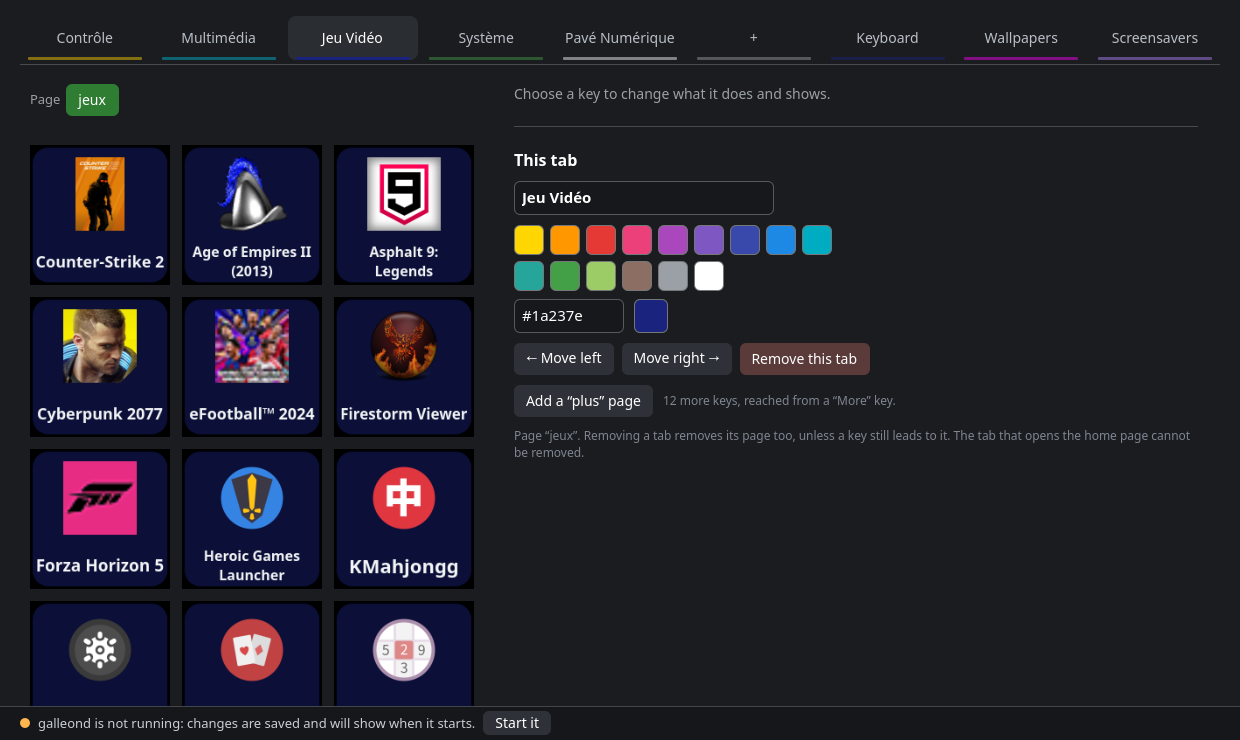
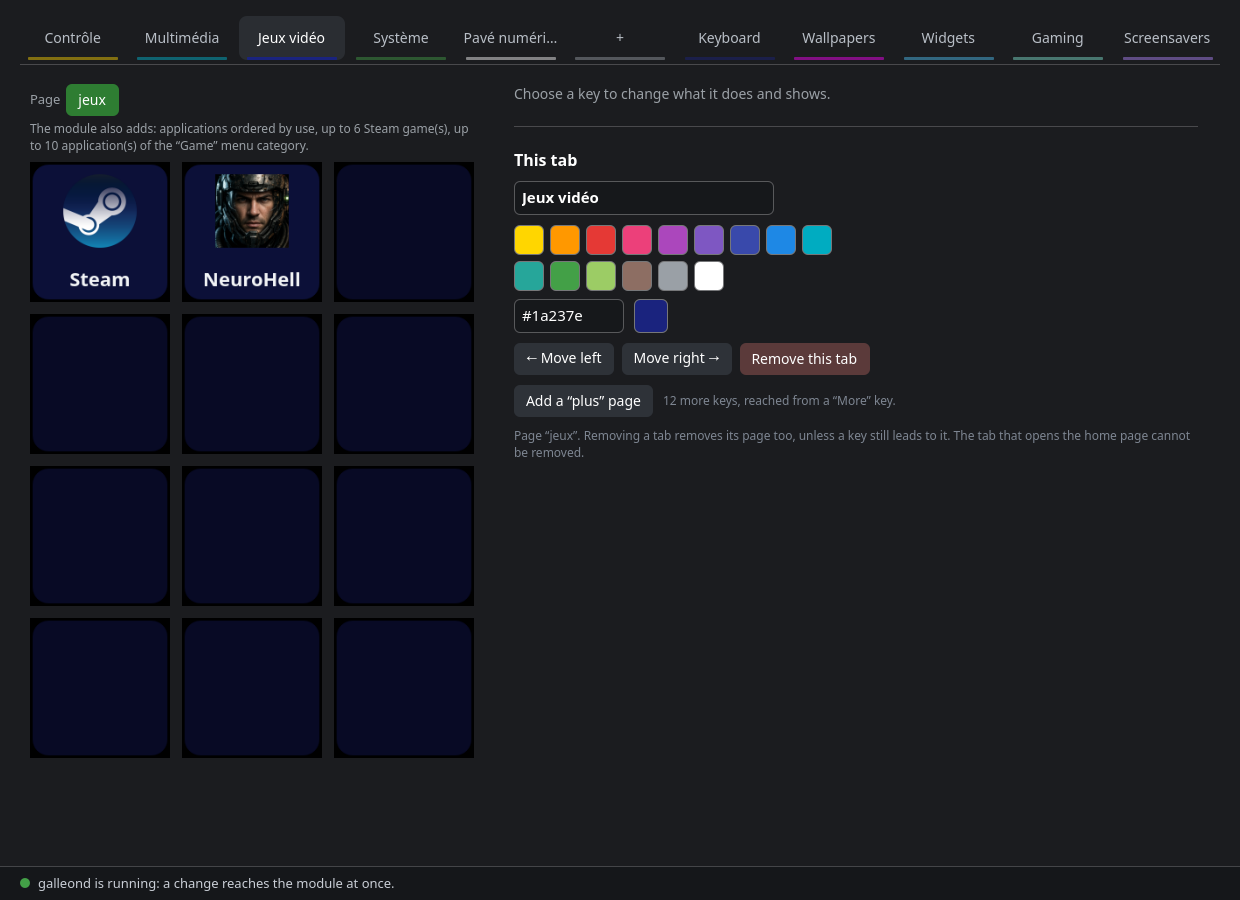
docs: present 0.2.0 widgets and Gaming on website and READMEs

Changed region(s): [[0.0, 0.0311, 0.9806, 0.9946], [0.7048, 0.5595, 0.7355, 0.5905]]

diff --git a/site/index.html b/site/index.html
@@ -6,12 +6,12 @@
 <meta charset="utf-8">
 <meta name="viewport" content="width=device-width, initial-scale=1">
 <title>GalleonCore — Open-source control for Corsair Galleon 100 SD</title>
-<meta name="description" content="Open-source control for the Corsair Galleon 100 SD on Linux and Windows. Customize 12 Stream Deck keys, dials, wallpapers, screensavers and app launchers.">
+<meta name="description" content="Open-source control for the Corsair Galleon 100 SD on Linux and Windows. Customize Stream Deck keys, home widgets, automatic Gaming mode, wallpapers and screensavers.">
 <link rel="canonical" href="https://galleoncore.xyz/">
 <meta property="og:type" content="website">
 <meta property="og:site_name" content="GalleonCore">
 <meta property="og:title" content="GalleonCore — Open-source control for Corsair Galleon 100 SD">
-<meta property="og:description" content="Control and customize the Galleon 100 SD Stream Deck keys, dials, wallpapers and screensavers on Linux and Windows.">
+<meta property="og:description" content="Control and customize the Galleon 100 SD Stream Deck keys, home widgets and automatic Gaming mode on Linux and Windows.">
 <meta property="og:url" content="https://galleoncore.xyz/">
 <meta property="og:locale" content="en_US">
 <meta property="og:locale:alternate" content="fr_FR">
@@ -21,7 +21,7 @@
 <meta property="og:image:alt" content="Galleon Bosun showing the Control page and its Stream Deck buttons">
 <meta name="twitter:card" content="summary_large_image">
 <meta name="twitter:title" content="GalleonCore — Open-source control for Corsair Galleon 100 SD">
-<meta name="twitter:description" content="Customize the Galleon 100 SD Stream Deck keys, dials, wallpapers and screensavers on Linux and Windows.">
+<meta name="twitter:description" content="Customize the Galleon 100 SD Stream Deck keys, home widgets and automatic Gaming mode on Linux and Windows.">
 <meta name="twitter:image" content="https://galleoncore.xyz/screenshots/control.png">
 <link rel="icon" href="logo.svg" type="image/svg+xml">
 <link rel="icon" href="favicon.ico" sizes="any">
@@ -354,12 +354,12 @@ p code, li code { background: var(--code-bg); padding: 1px 6px; border-radius: 4
     <div>
       <h1>GalleonCore</h1>
       <p class="lead">
-        <span lang="en">Open-source Linux support for the Corsair Galleon 100 SD: its Stream Deck keys, screen and dials, its RGB lighting, and widgets that show on both the keyboard and your KDE desktop.</span>
-        <span lang="fr">Le support Linux libre du Corsair Galleon 100 SD : les touches, l'écran et les molettes de son Stream Deck, son éclairage RVB, et des widgets affichés à la fois sur le clavier et sur ton bureau KDE.</span>
+        <span lang="en">Open-source Linux support for the Corsair Galleon 100 SD: its Stream Deck keys, screen and dials, customizable home widgets and automatic Gaming mode.</span>
+        <span lang="fr">Le support Linux libre du Corsair Galleon 100 SD : les touches, l'écran et les molettes de son Stream Deck, des widgets d’accueil personnalisables et un mode Gaming automatique.</span>
       </p>
       <p class="note">
-        <span lang="en">Active development. The Stream Deck module works on Linux, with Galleon Bosun for settings. A Windows desktop preview is available for hardware testing; Plasma widgets remain planned.</span>
-        <span lang="fr">En développement actif. Le module Stream Deck fonctionne sous Linux, avec Galleon Bosun pour les réglages. Une préversion Windows est disponible pour les essais matériels ; les widgets Plasma restent prévus.</span>
+        <span lang="en">Active development. The Stream Deck module works on Linux, with Galleon Bosun for settings. Version 0.2.0 brings home widgets and automatic Gaming mode to Linux and Windows; Plasma widgets remain planned.</span>
+        <span lang="fr">En développement actif. Le module Stream Deck fonctionne sous Linux, avec Galleon Bosun pour les réglages. La version 0.2.0 apporte les widgets d’accueil et le mode Gaming automatique sous Linux et Windows ; les widgets Plasma restent prévus.</span>
       </p>
       <div class="actions">
         <a class="btn btn-primary" href="https://github.com/Paullux/GalleonCore"><span lang="en">View the source</span><span lang="fr">Voir le code</span></a>
@@ -381,7 +381,7 @@ p code, li code { background: var(--code-bg); padding: 1px 6px; border-radius: 4
         <a class="key" style="--i:2" href="#build" data-en="Build GalleonCore and give your user access to the keyboard." data-fr="Compiler GalleonCore et donner accès au clavier."><span lang="en">Build</span><span lang="fr">Com&shy;piler</span></a>
         <a class="key" style="--i:3" href="#quality" data-en="Tests, sanitizers, fuzzing and lints on every change." data-fr="Tests, sanitizers, fuzzing et lints à chaque modification."><span lang="en">Tests</span><span lang="fr">Tests</span></a>
         <a class="key" style="--i:4" href="#deck" data-en="Draw on the 12 keys and the screen, read the dials." data-fr="Afficher sur les 12 touches et l'écran, lire les molettes."><span lang="en">Stream Deck</span><span lang="fr">Stream Deck</span></a>
-        <a class="key" style="--i:5" href="#widgets" data-en="The same QML widgets on the keyboard and in Plasma." data-fr="Les mêmes widgets QML sur le clavier et dans Plasma."><span lang="en">Widgets</span><span lang="fr">Widgets</span></a>
+        <a class="key" style="--i:5" href="#new-in-020" data-en="Customize home widgets and automatic Gaming mode in Bosun." data-fr="Personnalise les widgets d’accueil et le mode Gaming automatique dans Bosun."><span lang="en">Widgets</span><span lang="fr">Widgets</span></a>
         <a class="key" style="--i:6" href="#rgb" data-en="Per-key RGB, mood bar and dials, through OpenRGB." data-fr="RVB par touche, barre d'ambiance et molettes, via OpenRGB."><span lang="en">RGB</span><span lang="fr">RVB</span></a>
         <a class="key" style="--i:7" href="https://github.com/Paullux/GalleonCore/tree/main/docs/protocol" data-en="Protocol notes and USB captures, each fact with its source." data-fr="Notes de protocole et captures USB, chaque fait sourcé."><span lang="en">Protocol</span><span lang="fr">Proto&shy;cole</span></a>
         <a class="key" style="--i:8" href="https://github.com/Paullux/GalleonCore/blob/main/docs/ROADMAP.md" data-en="Detailed design notes and next steps (in French)." data-fr="Notes de conception détaillées et prochaines étapes."><span lang="en">Roadmap</span><span lang="fr">Feuille de route</span></a>
@@ -395,7 +395,7 @@ p code, li code { background: var(--code-bg); padding: 1px 6px; border-radius: 4
 
   <section class="wrap" id="downloads">
     <h2><span lang="en">Install GalleonCore</span><span lang="fr">Installer GalleonCore</span></h2>
-    <p class="prose"><span lang="en">Choose your operating system. Version 0.1.0 has direct downloads; distribution repositories also provide updates. The keyboard needs its own hardware access rules and a running per-user daemon.</span><span lang="fr">Choisis ton système. La version 0.1.0 propose des téléchargements directs ; les dépôts de distribution facilitent aussi les mises à jour. Le clavier nécessite des règles d’accès au matériel et un démon utilisateur actif.</span></p>
+    <p class="prose"><span lang="en">Choose your operating system. Version 0.2.0 has direct downloads; distribution repositories also provide updates. The keyboard needs its own hardware access rules and a running per-user daemon.</span><span lang="fr">Choisis ton système. La version 0.2.0 propose des téléchargements directs ; les dépôts de distribution facilitent aussi les mises à jour. Le clavier nécessite des règles d’accès au matériel et un démon utilisateur actif.</span></p>
     <div class="download-stats" aria-live="polite">
       <h3><span lang="en">Download counts</span><span lang="fr">Compteurs de téléchargement</span></h3>
       <div class="download-stats-grid">
@@ -416,7 +416,7 @@ p code, li code { background: var(--code-bg); padding: 1px 6px; border-radius: 4
       <article class="download-card">
         <h3>Windows x86_64</h3>
         <p><span lang="en">The Setup installs Bosun and galleond for your user. The ZIP is a portable alternative.</span><span lang="fr">Le Setup installe Bosun et galleond pour ta session. Le ZIP est une variante portable.</span></p>
-        <div class="actions"><a class="btn btn-primary" href="https://github.com/Paullux/GalleonCore/releases/download/v0.1.0/GalleonCore-0.1.0-Windows-x86_64-Setup.exe">Setup .exe</a><a class="btn btn-secondary" href="https://github.com/Paullux/GalleonCore/releases/download/v0.1.0/GalleonCore-Windows-x86_64.zip">ZIP</a></div>
+        <div class="actions"><a class="btn btn-primary" href="https://github.com/Paullux/GalleonCore/releases/download/v0.2.0/GalleonCore-0.2.0-Windows-x86_64-Setup.exe">Setup .exe</a><a class="btn btn-secondary" href="https://github.com/Paullux/GalleonCore/releases/download/v0.2.0/GalleonCore-Windows-x86_64.zip">ZIP</a></div>
       </article>
       <article class="download-card">
         <h3>Ubuntu 24.04 / 26.04</h3>
@@ -424,29 +424,29 @@ p code, li code { background: var(--code-bg); padding: 1px 6px; border-radius: 4
         <pre><code>sudo add-apt-repository ppa:paulwoisard/galleoncore
 sudo apt update
 sudo apt install galleoncore</code></pre>
-        <div class="actions"><a class="btn btn-primary" href="https://github.com/Paullux/GalleonCore/releases/download/v0.1.0/galleoncore_0.1.0-2.noble_amd64.deb">.deb 24.04</a><a class="btn btn-secondary" href="https://github.com/Paullux/GalleonCore/releases/download/v0.1.0/galleoncore_0.1.0-2.resolute_amd64.deb">.deb 26.04</a><a href="https://launchpad.net/~paulwoisard/+archive/ubuntu/galleoncore">PPA</a></div>
+        <div class="actions"><a class="btn btn-primary" href="https://github.com/Paullux/GalleonCore/releases/download/v0.2.0/galleoncore_0.2.0-1.noble_amd64.deb">.deb 24.04</a><a class="btn btn-secondary" href="https://github.com/Paullux/GalleonCore/releases/download/v0.2.0/galleoncore_0.2.0-1.resolute_amd64.deb">.deb 26.04</a><a href="https://launchpad.net/~paulwoisard/+archive/ubuntu/galleoncore">PPA</a></div>
       </article>
       <article class="download-card">
         <h3>Fedora 43 / 44 / 45</h3>
         <p><span lang="en">Use COPR for updates, or download the RPM built for your Fedora release.</span><span lang="fr">Utilise COPR pour les mises à jour, ou télécharge le RPM construit pour ta version de Fedora.</span></p>
         <pre><code>sudo dnf copr enable paullux/GalleonCore
 sudo dnf install galleoncore</code></pre>
-        <div class="actions"><a class="btn btn-primary" href="https://github.com/Paullux/GalleonCore/releases/download/v0.1.0/galleoncore-0.1.0-1.fc43.x86_64.rpm">RPM 43</a><a class="btn btn-secondary" href="https://github.com/Paullux/GalleonCore/releases/download/v0.1.0/galleoncore-0.1.0-1.fc44.x86_64.rpm">RPM 44</a><a class="btn btn-secondary" href="https://github.com/Paullux/GalleonCore/releases/download/v0.1.0/galleoncore-0.1.0-1.fc45.x86_64.rpm">RPM 45</a><a href="https://copr.fedorainfracloud.org/coprs/paullux/GalleonCore/">COPR</a></div>
+        <div class="actions"><a class="btn btn-primary" href="https://github.com/Paullux/GalleonCore/releases/download/v0.2.0/galleoncore-0.2.0-1.fc43.x86_64.rpm">RPM 43</a><a class="btn btn-secondary" href="https://github.com/Paullux/GalleonCore/releases/download/v0.2.0/galleoncore-0.2.0-1.fc44.x86_64.rpm">RPM 44</a><a class="btn btn-secondary" href="https://github.com/Paullux/GalleonCore/releases/download/v0.2.0/galleoncore-0.2.0-1.fc45.x86_64.rpm">RPM 45</a><a href="https://copr.fedorainfracloud.org/coprs/paullux/GalleonCore/">COPR</a></div>
       </article>
       <article class="download-card">
         <h3>Arch Linux</h3>
         <p><span lang="en">AUR builds the package on your machine. The release also offers a binary package and its PKGBUILD recipe.</span><span lang="fr">L’AUR construit le paquet sur ta machine. La release propose aussi un paquet binaire et sa recette PKGBUILD.</span></p>
         <pre><code>yay -S galleoncore</code></pre>
-        <div class="actions"><a class="btn btn-primary" href="https://aur.archlinux.org/packages/galleoncore">AUR</a><a class="btn btn-secondary" href="https://github.com/Paullux/GalleonCore/releases/download/v0.1.0/galleoncore-0.1.0-1-x86_64.pkg.tar.zst"><span lang="en">Arch package</span><span lang="fr">Paquet Arch</span></a><a href="https://github.com/Paullux/GalleonCore/releases/download/v0.1.0/PKGBUILD">PKGBUILD</a></div>
+        <div class="actions"><a class="btn btn-primary" href="https://aur.archlinux.org/packages/galleoncore">AUR</a><a class="btn btn-secondary" href="https://github.com/Paullux/GalleonCore/releases/download/v0.2.0/galleoncore-0.2.0-1-x86_64.pkg.tar.zst"><span lang="en">Arch package</span><span lang="fr">Paquet Arch</span></a><a href="https://github.com/Paullux/GalleonCore/releases/download/v0.2.0/PKGBUILD">PKGBUILD</a></div>
       </article>
       <article class="download-card">
         <h3><span lang="en">Other Linux x86_64</span><span lang="fr">Autres Linux x86_64</span></h3>
         <p><span lang="en">Run the AppImage directly. Its separate host-integration archive installs the hardware rules and an optional user service; follow its instructions before using the keyboard.</span><span lang="fr">Lance directement l’AppImage. L’archive d’intégration séparée installe les règles matérielles et un service utilisateur facultatif ; suis ses instructions avant d’utiliser le clavier.</span></p>
-        <div class="actions"><a class="btn btn-primary" href="https://github.com/Paullux/GalleonCore/releases/download/v0.1.0/GalleonCore-0.1.0-x86_64.AppImage">AppImage</a><a class="btn btn-secondary" href="https://github.com/Paullux/GalleonCore/releases/download/v0.1.0/GalleonCore-host-integration.tar.gz"><span lang="en">Host integration</span><span lang="fr">Intégration système</span></a></div>
+        <div class="actions"><a class="btn btn-primary" href="https://github.com/Paullux/GalleonCore/releases/download/v0.2.0/GalleonCore-0.2.0-x86_64.AppImage">AppImage</a><a class="btn btn-secondary" href="https://github.com/Paullux/GalleonCore/releases/download/v0.2.0/GalleonCore-host-integration.tar.gz"><span lang="en">Host integration</span><span lang="fr">Intégration système</span></a></div>
       </article>
     </div>
     <p class="prose"><span lang="en">Native Linux packages include galleond, Bosun, libgalleon, widgets, wallpapers and udev rules. Enable the optional user service with <code>systemctl --user enable --now galleond.service</code>. Fedora RPMs are Fedora-specific. On other distributions, check AppImage compatibility with your system and install the separate hardware integration.</span><span lang="fr">Les paquets Linux natifs incluent galleond, Bosun, libgalleon, les widgets, les fonds d’écran et les règles udev. Active le service utilisateur facultatif avec <code>systemctl --user enable --now galleond.service</code>. Les RPM Fedora sont propres à Fedora. Sur les autres distributions, vérifie la compatibilité de l’AppImage avec ton système et installe l’intégration matérielle séparée.</span></p>
-    <p class="prose"><a href="https://github.com/Paullux/GalleonCore/releases/tag/v0.1.0"><span lang="en">What each release file contains and its checksums</span><span lang="fr">Contenu de chaque fichier de la release et sommes de contrôle</span></a></p>
+    <p class="prose"><a href="https://github.com/Paullux/GalleonCore/releases/tag/v0.2.0"><span lang="en">What each release file contains and its checksums</span><span lang="fr">Contenu de chaque fichier de la release et sommes de contrôle</span></a></p>
     <h3><span lang="en">Project and build links</span><span lang="fr">Liens du projet et des compilations</span></h3>
     <div class="badges">
       <a href="https://galleoncore.xyz/"><img data-external-src="https://img.shields.io/badge/website-GalleonCore-46505E" alt="Website" height="20" loading="lazy"></a>
@@ -458,7 +458,7 @@ sudo dnf install galleoncore</code></pre>
       <a href="https://launchpad.net/~paulwoisard/+archive/ubuntu/galleoncore"><img data-external-src="https://img.shields.io/badge/Ubuntu-PPA-E95420?logo=ubuntu&amp;logoColor=white" alt="Ubuntu PPA" height="20" loading="lazy"></a>
       <a href="https://copr.fedorainfracloud.org/coprs/paullux/GalleonCore/"><img data-external-src="https://img.shields.io/badge/Fedora-COPR-51A2DA?logo=fedora&amp;logoColor=white" alt="Fedora COPR" height="20" loading="lazy"></a>
       <a href="https://aur.archlinux.org/packages/galleoncore"><img data-external-src="https://img.shields.io/badge/Arch-AUR-1793D1?logo=archlinux&amp;logoColor=white" alt="Arch AUR" height="20" loading="lazy"></a>
-      <a href="https://github.com/Paullux/GalleonCore/releases/download/v0.1.0/GalleonCore-0.1.0-x86_64.AppImage"><img data-external-src="https://img.shields.io/badge/Linux-AppImage-8E6BBF?logo=linux&amp;logoColor=white" alt="AppImage" height="20" loading="lazy"></a>
+      <a href="https://github.com/Paullux/GalleonCore/releases/download/v0.2.0/GalleonCore-0.2.0-x86_64.AppImage"><img data-external-src="https://img.shields.io/badge/Linux-AppImage-8E6BBF?logo=linux&amp;logoColor=white" alt="AppImage" height="20" loading="lazy"></a>
       <a href="https://github.com/Paullux/GalleonCore/blob/main/LICENSE.md"><img data-external-src="https://img.shields.io/badge/license-GPL%20%2F%20LGPL%20%2F%20CC--BY--SA-blue" alt="Licenses" height="20" loading="lazy"></a>
       <a href="https://github.com/Paullux/GalleonCore/blob/main/SECURITY.md"><img data-external-src="https://img.shields.io/badge/security-report%20privately-46505E" alt="Security policy" height="20" loading="lazy"></a>
     </div>
@@ -474,22 +474,39 @@ sudo dnf install galleoncore</code></pre>
     </nav>
   </section>
 
+  <section class="wrap" id="new-in-020">
+    <h2><span lang="en">New in 0.2.0</span><span lang="fr">Les nouveautés de la 0.2.0</span></h2>
+    <div class="prose">
+      <h3><span lang="en">Widgets: build your home screen</span><span lang="fr">Widgets : compose ton écran d’accueil</span></h3>
+      <p><span lang="en">The Widgets tab brings together the local clock and date, weather for your chosen city, CPU and RAM usage, CPU temperature, partial downloads and game FPS. Show or hide each widget, drag it in the preview, and adjust its position, dimensions and text size. Apply sends the saved layout to the keyboard screen.</span><span lang="fr">L’onglet Widgets réunit l’heure et la date selon ta locale, la météo de la ville choisie, l’utilisation du CPU et de la RAM, la température CPU, les téléchargements partiels et les FPS du jeu. Affiche ou masque chaque widget, déplace-le dans l’aperçu et règle sa position, ses dimensions et sa taille de texte. Appliquer enregistre la disposition et l’envoie sur l’écran du clavier.</span></p>
+      <h3><span lang="en">Gaming: a dedicated screen while you play</span><span lang="fr">Gaming : un écran dédié pendant tes parties</span></h3>
+      <p><span lang="en">When a game is detected, automatic Gaming mode displays its artwork, FPS, CPU/GPU load gauges and available temperatures. It prevents the keyboard screensaver from starting during play. The Gaming pad controls appear while the game is active and disappear when it closes, even if you switch key pages during the session.</span><span lang="fr">Lorsqu’un jeu est détecté, le mode Gaming automatique affiche son image, les FPS, les jauges de charge CPU/GPU et les températures disponibles. Il empêche la veille du module pendant la partie. Les commandes Gaming du pad apparaissent pendant le jeu et disparaissent à sa fermeture, même si tu changes de page de touches entre-temps.</span></p>
+      <p><span lang="en">Choose Automatic, OBS or Game Bar in the Gaming tab. Automatic uses OBS on Linux and Game Bar on Windows; unavailable choices are disabled. OBS uses its local WebSocket connection for supported recording and replay actions with confirmed states. Game Bar uses keyboard shortcuts without claiming an unconfirmed recording state. Your choice is saved.</span><span lang="fr">Choisis Automatique, OBS ou Game Bar dans l’onglet Gaming. Automatique utilise OBS sous Linux et Game Bar sous Windows ; les choix indisponibles sont grisés. OBS passe par sa connexion WebSocket locale pour les actions d’enregistrement et de replay prises en charge, avec des états confirmés. Game Bar utilise des raccourcis clavier sans annoncer un état d’enregistrement non confirmé. Ton choix est mémorisé.</span></p>
+      <h3><span lang="en">FPS capture on Linux and Windows</span><span lang="fr">La capture des FPS sous Linux et Windows</span></h3>
+      <p><span lang="en">On Windows, Galleon detects the installed PresentMon service and uses its API without opening its interface. The capture control distinguishes installation, readiness and active capture. On Linux, Bosun prepares the MangoHud configuration and FPS folder, then provides instructions for Steam, Heroic, Lutris, PlayOnLinux and Bottles. A launcher setup is still required; detection becomes automatic on subsequent launches.</span><span lang="fr">Sous Windows, Galleon détecte le service PresentMon installé et utilise son API sans ouvrir son interface. Le bouton distingue l’installation, l’attente d’un jeu et la capture active. Sous Linux, Bosun prépare la configuration MangoHud et le dossier des FPS, puis explique les réglages pour Steam, Heroic, Lutris, PlayOnLinux et Bottles. Une configuration du lanceur reste nécessaire ; la détection devient ensuite automatique à chaque lancement.</span></p>
+      <p><span lang="en">Sensor availability depends on the hardware and drivers. NVIDIA uses NVML; AMD uses AMD-SMI or Linux hwmon. AMD ADLX is not yet integrated on Windows; optional local sensor providers may be needed for temperatures. The download widget counts partial files in the Downloads folder, rather than browser progress percentages. See the guides for Vulkan, DXVK, VKD3D-Proton and Flatpak limitations.</span><span lang="fr">Les capteurs disponibles dépendent du matériel et des pilotes. NVIDIA utilise NVML ; AMD utilise AMD-SMI ou hwmon sous Linux. ADLX n’est pas encore intégré sous Windows ; un fournisseur de capteurs local facultatif peut être nécessaire pour les températures. Le widget de téléchargements compte les fichiers partiels du dossier Téléchargements, sans afficher un pourcentage de progression du navigateur. Les guides détaillent les limites liées à Vulkan, DXVK, VKD3D-Proton et Flatpak.</span></p>
+      <p><a href="https://github.com/Paullux/GalleonCore/blob/v0.2.0/docs/HOME_WIDGETS.md"><span lang="en">Widgets and FPS guide</span><span lang="fr">Guide des widgets et des FPS</span></a> · <a href="https://github.com/Paullux/GalleonCore/blob/v0.2.0/docs/MODE_JEU_LINUX.fr.md"><span lang="en">Linux launcher setup (French)</span><span lang="fr">Configuration des lanceurs Linux</span></a> · <a href="https://github.com/Paullux/GalleonCore/blob/v0.2.0/docs/GAMING_RECORDING.md"><span lang="en">Recording setup</span><span lang="fr">Configuration de l’enregistrement</span></a></p>
+    </div>
+  </section>
+
   <section class="wrap" id="previews">
     <h2><span lang="en">Galleon Bosun in pictures</span><span lang="fr">Galleon Bosun en images</span></h2>
-    <p class="prose"><span lang="en">The five default pages are shown with applications found on one Linux desktop; installed apps and icons vary by computer. Wallpapers and screensavers are selected in their own tabs. Click a picture to view it at full size.</span><span lang="fr">Les cinq pages par défaut sont montrées avec les applications trouvées sur un poste Linux ; les applications et icônes varient selon l’ordinateur. Les fonds d’écran et écrans de veille se choisissent dans leurs onglets. Clique sur une image pour l’agrandir.</span></p>
+    <p class="prose"><span lang="en">The five default pages are shown with applications found on one Linux desktop; installed apps and icons vary by computer. Widgets and Gaming are integrated alongside Keyboard, Wallpapers and Screensavers. These captures use an isolated demonstration profile; live readings depend on the host. Click a picture to view it at full size.</span><span lang="fr">Les cinq pages par défaut sont montrées avec les applications trouvées sur un poste Linux ; les applications et icônes varient selon l’ordinateur. Widgets et Gaming sont intégrés aux côtés de Clavier, Fonds d’écran et Écrans de veille. Ces captures utilisent un profil de démonstration isolé ; les mesures dépendent du poste. Clique sur une image pour l’agrandir.</span></p>
     <figure class="demo-video">
       <div class="demo-video-player" id="demo-video-player">
         <button type="button" id="demo-video-load" aria-label="Play GalleonCore demo on YouTube / Lire la démo GalleonCore sur YouTube"><span class="demo-video-play" aria-hidden="true">▶</span><span lang="en">Watch GalleonCore in action</span><span lang="fr">Voir GalleonCore en action</span></button>
       </div>
-      <figcaption><span lang="en">Playing loads a YouTube video. </span><span lang="fr">La lecture charge une vidéo YouTube. </span><a href="https://youtu.be/mLbDAYO5cGY"><span lang="en">Open on YouTube</span><span lang="fr">Ouvrir sur YouTube</span></a>.</figcaption>
+      <figcaption><span lang="en">Playing loads a YouTube video. </span><span lang="fr">La lecture charge une vidéo YouTube. </span><a href="https://youtu.be/eFwru_OMNNI"><span lang="en">Open on YouTube</span><span lang="fr">Ouvrir sur YouTube</span></a>.</figcaption>
     </figure>
     <div class="preview-grid">
-      <figure><a href="screenshots/control.png"><img src="screenshots/control.png" width="1240" height="740" loading="lazy" alt="Galleon Bosun: media controls on the Control page"></a><figcaption><span lang="en">Control</span><span lang="fr">Contrôle</span></figcaption></figure>
-      <figure><a href="screenshots/multimedia.png"><img src="screenshots/multimedia.png" width="1240" height="740" loading="lazy" alt="Galleon Bosun: browsers and media players on the Multimedia page"></a><figcaption><span lang="en">Multimedia</span><span lang="fr">Multimédia</span></figcaption></figure>
-      <figure><a href="screenshots/games.png"><img src="screenshots/games.png" width="1240" height="740" loading="lazy" alt="Galleon Bosun: installed games on the Games page"></a><figcaption><span lang="en">Games</span><span lang="fr">Jeu Vidéo</span></figcaption></figure>
-      <figure><a href="screenshots/system.png"><img src="screenshots/system.png" width="1240" height="740" loading="lazy" alt="Galleon Bosun: system tools on the System page"></a><figcaption><span lang="en">System</span><span lang="fr">Système</span></figcaption></figure>
-      <figure><a href="screenshots/numpad.png"><img src="screenshots/numpad.png" width="1240" height="740" loading="lazy" alt="Galleon Bosun: virtual numeric keypad"></a><figcaption><span lang="en">Numeric keypad</span><span lang="fr">Pavé numérique</span></figcaption></figure>
-      <figure><a href="screenshots/wallpapers.png"><img src="screenshots/wallpapers.png" width="1240" height="740" loading="lazy" alt="Galleon Bosun: choosing a wallpaper from the repository collection"></a><figcaption><span lang="en">Choose a wallpaper</span><span lang="fr">Choisir un fond d’écran</span></figcaption></figure>
+      <figure><a href="screenshots/control.png"><img src="screenshots/control.png" width="1240" height="900" loading="lazy" alt="Galleon Bosun: media controls on the Control page"></a><figcaption><span lang="en">Control</span><span lang="fr">Contrôle</span></figcaption></figure>
+      <figure><a href="screenshots/multimedia.png"><img src="screenshots/multimedia.png" width="1240" height="900" loading="lazy" alt="Galleon Bosun: browsers and media players on the Multimedia page"></a><figcaption><span lang="en">Multimedia</span><span lang="fr">Multimédia</span></figcaption></figure>
+      <figure><a href="screenshots/games.png"><img src="screenshots/games.png" width="1240" height="900" loading="lazy" alt="Galleon Bosun: installed games on the Games page"></a><figcaption><span lang="en">Games</span><span lang="fr">Jeu Vidéo</span></figcaption></figure>
+      <figure><a href="screenshots/system.png"><img src="screenshots/system.png" width="1240" height="900" loading="lazy" alt="Galleon Bosun: system tools on the System page"></a><figcaption><span lang="en">System</span><span lang="fr">Système</span></figcaption></figure>
+      <figure><a href="screenshots/numpad.png"><img src="screenshots/numpad.png" width="1240" height="900" loading="lazy" alt="Galleon Bosun: virtual numeric keypad"></a><figcaption><span lang="en">Numeric keypad</span><span lang="fr">Pavé numérique</span></figcaption></figure>
+      <figure><a href="screenshots/wallpapers.png"><img src="screenshots/wallpapers.png" width="1240" height="900" loading="lazy" alt="Galleon Bosun: choosing a wallpaper from the repository collection"></a><figcaption><span lang="en">Choose a wallpaper</span><span lang="fr">Choisir un fond d’écran</span></figcaption></figure>
+      <figure><a href="screenshots/widgets.png"><img src="screenshots/widgets.png" width="1240" height="900" loading="lazy" alt="Galleon Bosun: integrated Widgets tab with layout preview and text size controls"></a><figcaption><span lang="en">Widgets: layout, size and text</span><span lang="fr">Widgets : disposition, dimensions et texte</span></figcaption></figure>
+      <figure><a href="screenshots/gaming.png"><img src="screenshots/gaming.png" width="1240" height="1000" loading="lazy" alt="Galleon Bosun: integrated Gaming tab with recording selection and automatic game mode settings"></a><figcaption><span lang="en">Gaming: recording and automatic game mode</span><span lang="fr">Gaming : enregistrement et mode Jeu automatique</span></figcaption></figure>
       <figure><a href="screenshots/screensavers.png"><img src="screenshots/screensavers.png" width="1240" height="900" loading="lazy" alt="Galleon Bosun: choosing from two bundled screensaver videos"></a><figcaption><span lang="en">Choose a screensaver video</span><span lang="fr">Choisir une vidéo de veille</span></figcaption></figure>
     </div>
   </section>
@@ -553,7 +570,7 @@ sudo dnf install galleoncore</code></pre>
       <li><span><span lang="en">KDE Plasma widgets</span><span lang="fr">Widgets KDE Plasma</span></span><span class="state state-skeleton"><span lang="en">Skeleton</span><span lang="fr">Squelette</span></span></li>
       <li><span><span lang="en">OpenRGB dial-ring lighting</span><span lang="fr">Éclairage des anneaux via OpenRGB</span></span><span class="state state-active"><span lang="en">Hardware confirmed</span><span lang="fr">Confirmé sur le module</span></span></li>
       <li><span><span lang="en">Per-key RGB on the main keyboard</span><span lang="fr">RVB par touche du clavier principal</span></span><span class="state state-research"><span lang="en">Protocol blocked</span><span lang="fr">Protocole bloqué</span></span></li>
-      <li><span><span lang="en">Windows Setup and distribution packages</span><span lang="fr">Setup Windows et paquets de distribution</span></span><span class="state state-active"><span lang="en">v0.1.0 released</span><span lang="fr">v0.1.0 publiée</span></span></li>
+      <li><span><span lang="en">Windows Setup and distribution packages</span><span lang="fr">Setup Windows et paquets de distribution</span></span><span class="state state-active"><span lang="en">v0.2.0 released</span><span lang="fr">v0.2.0 publiée</span></span></li>
       <li><span><span lang="en">Extended Windows hardware checks</span><span lang="fr">Essais matériels prolongés sous Windows</span></span><span class="state state-research"><span lang="en">Still to confirm</span><span lang="fr">Encore à confirmer</span></span></li>
     </ul>
     <p class="status-legend">
@@ -702,7 +719,7 @@ sudo udevadm control --reload &amp;&amp; sudo udevadm trigger</code></pre>
 
   document.getElementById("demo-video-load").addEventListener("click", function () {
     var iframe = document.createElement("iframe");
-    iframe.src = "https://www.youtube-nocookie.com/embed/mLbDAYO5cGY?autoplay=1";
+    iframe.src = "https://www.youtube-nocookie.com/embed/eFwru_OMNNI?autoplay=1";
     iframe.title = "GalleonCore demo / Démonstration GalleonCore";
     iframe.allow = "accelerometer; autoplay; encrypted-media; gyroscope; picture-in-picture; web-share";
     iframe.allowFullscreen = true;

diff --git a/README.fr.md b/README.fr.md
@@ -11,7 +11,7 @@
 [![Ubuntu PPA](https://img.shields.io/badge/Ubuntu-PPA-E95420?logo=ubuntu&logoColor=white)](https://launchpad.net/~paulwoisard/+archive/ubuntu/galleoncore)
 [![Fedora COPR](https://img.shields.io/badge/Fedora-COPR-51A2DA?logo=fedora&logoColor=white)](https://copr.fedorainfracloud.org/coprs/paullux/GalleonCore/)
 [![Arch AUR](https://img.shields.io/badge/Arch-AUR-1793D1?logo=archlinux&logoColor=white)](https://aur.archlinux.org/packages/galleoncore)
-[![Linux AppImage](https://img.shields.io/badge/Linux-AppImage-8E6BBF?logo=linux&logoColor=white)](https://github.com/Paullux/GalleonCore/releases/download/v0.1.0/GalleonCore-0.1.0-x86_64.AppImage)
+[![Linux AppImage](https://img.shields.io/badge/Linux-AppImage-8E6BBF?logo=linux&logoColor=white)](https://github.com/Paullux/GalleonCore/releases/download/v0.2.0/GalleonCore-0.2.0-x86_64.AppImage)
 [![Licenses](https://img.shields.io/badge/license-GPL%20%2F%20LGPL%20%2F%20CC--BY--SA-blue)](LICENSE.md)
 [![Security policy](https://img.shields.io/badge/security-report%20privately-46505E)](SECURITY.md)
 
@@ -55,7 +55,7 @@ Un mode Jeu automatique affiche une image locale du jeu, les FPS et les tempéra
 
 ### Captures de Galleon Bosun
 
-Les cinq pages par défaut montrent les applications installées sur un poste Linux ; les applications et leurs icônes varient selon l’ordinateur. Les deux dernières captures montrent le choix des fonds d’écran et des vidéos de veille. [Voir la galerie sur le site](https://galleoncore.xyz/#previews).
+Les captures actualisées pour la 0.2.0 montrent les cinq pages de touches et les onglets Fonds d’écran, Widgets, Gaming et Écrans de veille. Les applications et leurs icônes varient selon l’ordinateur ; les mesures dépendent du poste de capture. [Voir la galerie sur le site](https://galleoncore.xyz/#previews).
 
 | Contrôle | Multimédia |
 |---|---|
@@ -64,8 +64,22 @@ Les cinq pages par défaut montrent les applications installées sur un poste Li
 | ![Page Jeu Vidéo de Bosun avec les jeux installés](site/screenshots/games.png) | ![Page Système de Bosun avec les outils utiles](site/screenshots/system.png) |
 | Pavé numérique | Choix du fond d’écran |
 | ![Pavé numérique dans Bosun](site/screenshots/numpad.png) | ![Catalogue de fonds d’écran dans Bosun](site/screenshots/wallpapers.png) |
+| Widgets : disposition et taille du texte | Gaming : jeu et enregistrement |
+| ![Onglet Widgets intégré dans Bosun](site/screenshots/widgets.png) | ![Onglet Gaming intégré dans Bosun](site/screenshots/gaming.png) |
 | Choix de la veille | |
 | ![Choix des deux vidéos de veille du dépôt dans Bosun](site/screenshots/screensavers.png) | |
+
+
+### Widgets et Gaming dans Bosun
+
+- **Widgets** : heure et date selon la locale, météo de la ville choisie, CPU/RAM, température CPU, fichiers en cours de téléchargement et FPS. Position, dimensions, taille du texte et visibilité se règlent dans l’aperçu, puis sont enregistrées avec **Appliquer**.
+- **Gaming** : image locale du jeu, FPS, jauges de charge CPU/GPU et températures disponibles. La veille du module est suspendue pendant la capture. Les commandes du pad apparaissent uniquement pendant le jeu et disparaissent à sa fermeture, même après un changement de page de touches.
+- **Enregistrement** : choix mémorisé entre Automatique, OBS et Game Bar. Automatique utilise OBS sous Linux et Game Bar sous Windows. OBS passe par WebSocket avec des états confirmés ; Game Bar utilise des raccourcis sans annoncer un état non confirmé. Voir le [guide d’enregistrement](docs/GAMING_RECORDING.md).
+- **FPS** : sous Windows, détection du service PresentMon installé et capture via son API, sans interface à ouvrir. Sous Linux, bouton de configuration MangoHud et instructions pour Steam, Heroic, Lutris, PlayOnLinux et Bottles ; une configuration initiale du lanceur reste nécessaire. Voir le [guide Linux](docs/MODE_JEU_LINUX.fr.md).
+
+Les capteurs dépendent du matériel et des pilotes : NVML pour NVIDIA, AMD-SMI/hwmon sous Linux ; ADLX n’est pas encore intégré sous Windows. Les téléchargements sont un compteur de fichiers partiels, pas un pourcentage du navigateur. Voir les [limites par plateforme](docs/HOME_WIDGETS.md).
+
+[Voir la démonstration vidéo de la 0.2.0 sur YouTube](https://youtu.be/eFwru_OMNNI).
 
 ### Windows : les touches du Stream Deck ne répondent pas
 

diff --git a/README.md b/README.md
@@ -11,7 +11,7 @@
 [![Ubuntu PPA](https://img.shields.io/badge/Ubuntu-PPA-E95420?logo=ubuntu&logoColor=white)](https://launchpad.net/~paulwoisard/+archive/ubuntu/galleoncore)
 [![Fedora COPR](https://img.shields.io/badge/Fedora-COPR-51A2DA?logo=fedora&logoColor=white)](https://copr.fedorainfracloud.org/coprs/paullux/GalleonCore/)
 [![Arch AUR](https://img.shields.io/badge/Arch-AUR-1793D1?logo=archlinux&logoColor=white)](https://aur.archlinux.org/packages/galleoncore)
-[![Linux AppImage](https://img.shields.io/badge/Linux-AppImage-8E6BBF?logo=linux&logoColor=white)](https://github.com/Paullux/GalleonCore/releases/download/v0.1.0/GalleonCore-0.1.0-x86_64.AppImage)
+[![Linux AppImage](https://img.shields.io/badge/Linux-AppImage-8E6BBF?logo=linux&logoColor=white)](https://github.com/Paullux/GalleonCore/releases/download/v0.2.0/GalleonCore-0.2.0-x86_64.AppImage)
 [![Licenses](https://img.shields.io/badge/license-GPL%20%2F%20LGPL%20%2F%20CC--BY--SA-blue)](LICENSE.md)
 [![Security policy](https://img.shields.io/badge/security-report%20privately-46505E)](SECURITY.md)
 
@@ -55,7 +55,7 @@ An automatic game screen now shows local game artwork, FPS and CPU/GPU temperatu
 
 ### Galleon Bosun screenshots
 
-The five default pages below show applications installed on one Linux desktop; the apps and icons vary by computer. The last two pictures show the wallpaper and screensaver selectors. [Open the full gallery on the website](https://galleoncore.xyz/#previews).
+The captures refreshed for 0.2.0 show the five key pages alongside Wallpapers, Widgets, Gaming and Screensavers. Installed applications and their icons vary by computer; live readings depend on the capture host. [Open the full gallery on the website](https://galleoncore.xyz/#previews).
 
 | Control | Multimedia |
 |---|---|
@@ -64,8 +64,22 @@ The five default pages below show applications installed on one Linux desktop; t
 | ![Bosun Games page with installed games](site/screenshots/games.png) | ![Bosun System page with useful tools](site/screenshots/system.png) |
 | Numeric keypad | Wallpaper choice |
 | ![Bosun numeric keypad](site/screenshots/numpad.png) | ![Bosun wallpaper collection](site/screenshots/wallpapers.png) |
+| Widgets: layout and text size | Gaming: game and recording |
+| ![Integrated Widgets tab in Bosun](site/screenshots/widgets.png) | ![Integrated Gaming tab in Bosun](site/screenshots/gaming.png) |
 | Screensaver choice | |
 | ![Bosun screensaver selector with the two bundled videos](site/screenshots/screensavers.png) | |
+
+
+### Widgets and Gaming in Bosun
+
+- **Widgets**: local clock and date, weather for your city, CPU/RAM, CPU temperature, partial downloads and FPS. Edit position, dimensions, text size and visibility in the preview, then save with **Apply**.
+- **Gaming**: local game artwork, FPS, CPU/GPU load gauges and available temperatures. The module screensaver is suspended during capture. Pad controls appear only while the game is active and disappear when it closes, even after switching key pages.
+- **Recording**: a saved choice of Automatic, OBS or Game Bar. Automatic uses OBS on Linux and Game Bar on Windows. OBS uses WebSocket with confirmed states; Game Bar uses shortcuts without claiming an unconfirmed state. See the [recording guide](docs/GAMING_RECORDING.md).
+- **FPS**: on Windows, detection of the installed PresentMon service and capture through its API, without opening its interface. On Linux, a MangoHud configuration button and instructions for Steam, Heroic, Lutris, PlayOnLinux and Bottles; initial launcher setup is still required. See the [Linux guide (French)](docs/MODE_JEU_LINUX.fr.md).
+
+Sensors depend on hardware and drivers: NVML for NVIDIA, AMD-SMI/hwmon on Linux; ADLX is not yet integrated on Windows. Downloads are a partial-file count, rather than browser progress percentages. See the [platform limitations](docs/HOME_WIDGETS.md).
+
+[Watch the 0.2.0 demonstration on YouTube](https://youtu.be/eFwru_OMNNI).
 
 ### Windows: Stream Deck input does not respond
 

diff --git a/site/screenshots/PROVENANCE.md b/site/screenshots/PROVENANCE.md
@@ -5,14 +5,19 @@ SPDX-License-Identifier: GPL-3.0-or-later
 
 # Galleon Bosun screenshots
 
-These seven screenshots were captured on 21 October 2026 from the project-built
-Galleon Bosun on the author's Linux desktop, using its `--screenshot` option.
-`control.png`, `multimedia.png`, `games.png`, `system.png` and `numpad.png` are
-the five first-run page previews reviewed and approved by the owner. Installed
-applications and their icons vary by system. `wallpapers.png` shows the bundled
-wallpaper catalogue with an isolated profile; `screensavers.png` shows the two
-bundled videos using an isolated demonstration profile. Neither profile uses
-the owner's personal wallpaper or pages file.
+These nine screenshots were regenerated on 24 October 2026 from the
+project-built Galleon Bosun 0.2.0 on the author's Linux desktop, rendered
+in an isolated X11 display. All show the integrated Widgets and Gaming tabs.
+`control.png`, `multimedia.png`, `games.png`, `system.png` and `numpad.png`
+show five theme pages from a separate demonstration copy of the author's
+profile. Installed applications and their icons vary by system.
+`wallpapers.png` shows the bundled wallpaper catalogue; `screensavers.png`
+shows only the two bundled videos. No personal wallpaper or video was added.
+`widgets.png` shows the layout editor with the owner's widget arrangement;
+readings are collected live on the capture host and may be unavailable.
+`gaming.png` shows recording and automatic Gaming mode settings on Linux,
+without simulating an active game or a confirmed recording state.
+The original user configuration was not modified.
 
 The captures document Galleon Bosun; game and application icons appear only
 inside its interface. Their marks and icon copyrights remain with their
